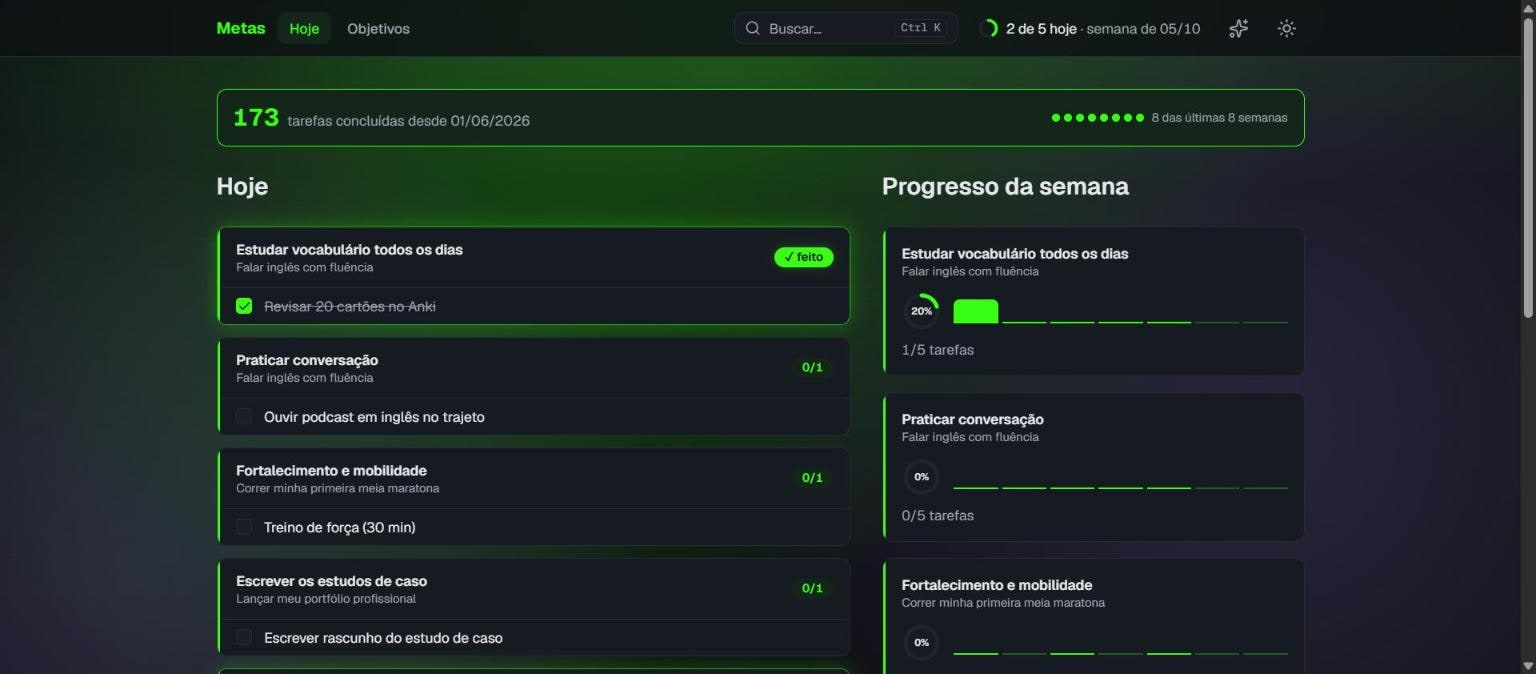
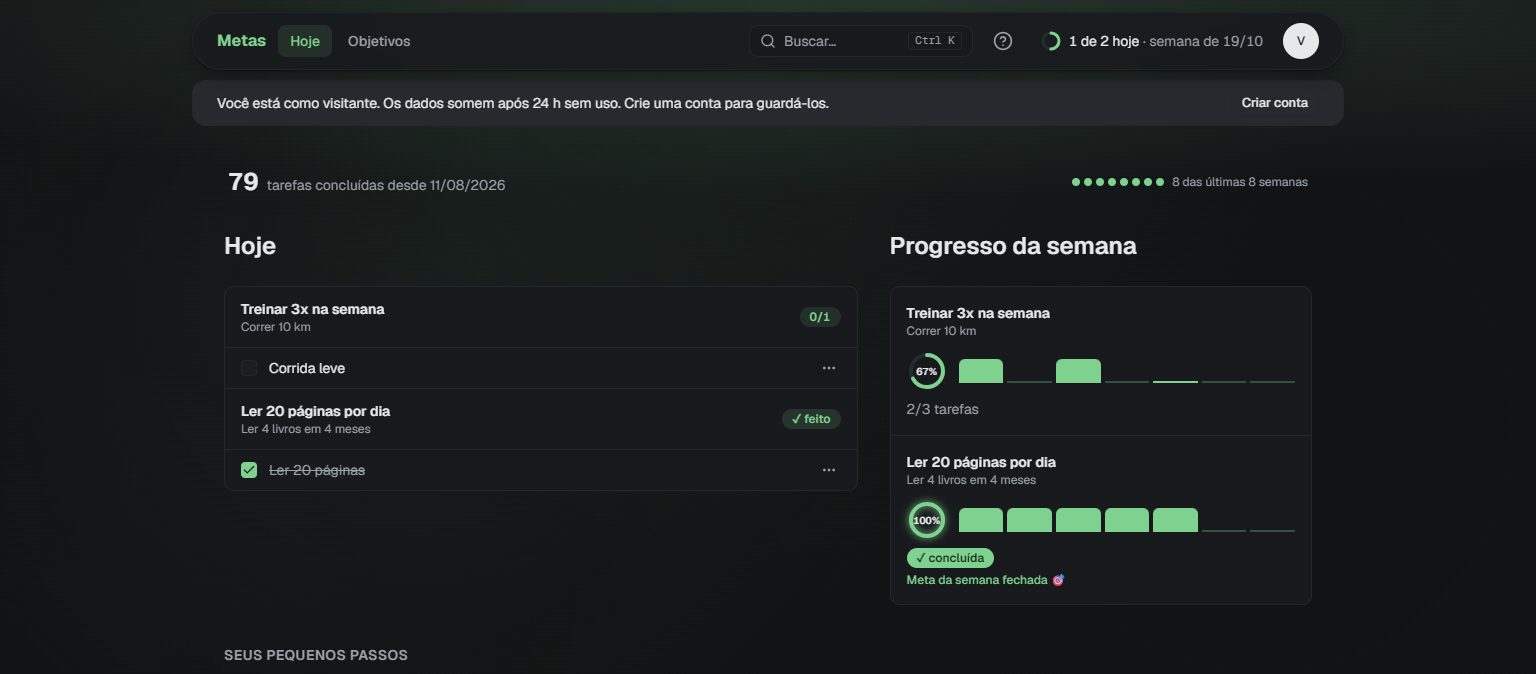
docs: refresh the README screenshots and the texts that changed
The screenshots still showed the old neon dark theme and the Today screen
without the new section. Regenerated with fictitious guest data (headless
Chrome driven over the DevTools protocol, 1536 px wide like before):

- hoje.jpg, tema-claro.jpg, objetivos.jpg, objetivo-detalhe.jpg,
  busca.jpg, tour.jpg, funil.jpg and mobile.png (two phone screens, as
  before) in the calmer look.
- New pequenos-passos.jpg: the "Seus pequenos passos" section with the
  compound effect and the year in dots.
- funil.jpg: fictitious quiz sessions (ids "readme-*") were inserted in
  the local dev database for the shot and deleted right after; the dev
  database's own anonymous test sessions stayed.

README.md:
- Intro and a new "Seus pequenos passos" feature bullet (compound effect,
  year dots with three tones and the 60% day, year arrows, "Ver o mês").
- Tela Hoje: each subject in a panel; theme bullet describes the calmer
  look and the fainter Aurora.
- New screenshots section for the small steps; test count "mais de 800".
- "Como o projeto é tocado": issues are closed by the
  close-issues-on-develop workflow when a PR enters develop.

Docs only: no code change. No tests run.

Refs #91

Changed region(s): [[0.0, 0.0, 1.0, 1.0], [0.625, 0.9659, 0.7812, 0.997], [0.5, 0.5297, 0.5625, 0.5608]]

diff --git a/README.md b/README.md
@@ -4,7 +4,8 @@
 
 Acompanhe **objetivos**, quebre-os em **metas semanais** e execute com **tarefas diárias** — com um
 quiz de onboarding que monta o primeiro plano, um funil de conversão medido no próprio app, gráficos de
-progresso, sequência de semanas cumpridas e um app instalável (PWA) no celular e no desktop.
+progresso, sequência de semanas cumpridas, um calendário de pontos do ano e um app instalável (PWA) no
+celular e no desktop.
 
 **[Ver online](https://metas-app-flax.vercel.app)** · [abrir direto no quiz](https://metas-app-flax.vercel.app/quiz)
 · [ver o funil](https://metas-app-flax.vercel.app/funil)
@@ -12,7 +13,7 @@ progresso, sequência de semanas cumpridas e um app instalável (PWA) no celular
 > Entre como visitante para ver uma conta de demonstração com dados prontos (apagada após 24 h sem uso),
 > ou crie sua conta com e-mail e senha.
 
-![Tela Hoje, em tema escuro: tarefas do dia agrupadas por meta e o progresso da semana](docs/screenshots/hoje.jpg)
+![Tela Hoje, em tema escuro: as tarefas do dia e o progresso da semana, cada assunto em um painel](docs/screenshots/hoje.jpg)
 
 > As imagens deste README foram geradas com dados fictícios.
 
@@ -39,7 +40,12 @@ progresso, sequência de semanas cumpridas e um app instalável (PWA) no celular
 - **Hierarquia de três níveis:** objetivo → metas semanais → tarefas diárias, com prazo e acompanhamento
   do tempo decorrido até a data-alvo.
 - **Tela Hoje:** as tarefas do dia agrupadas por meta, ao lado do progresso da semana (anel de progresso
-  e uma barra por dia). Marcar uma tarefa atualiza a tela na hora, antes de o servidor responder.
+  e uma barra por dia), cada assunto em um painel. Marcar uma tarefa atualiza a tela na hora, antes de o
+  servidor responder.
+- **Seus pequenos passos:** no fim da tela Hoje, o **efeito composto** (1% melhor a cada dia feito) e o ano
+  inteiro em pontinhos, um por dia, em três tons: nada feito, parte feita e dia feito (60% ou mais das tarefas
+  planejadas para o dia, para que um imprevisto não apague o dia). Setas voltam aos anos anteriores e o botão
+  "Ver o mês" abre o mês numa janela. A seção aparece também para quem ainda não tem nada feito, como convite.
 - **Metas recorrentes:** uma meta marcada como "repete toda semana" é recriada, com suas tarefas, a cada
   nova semana. Quem volta depois de dias fora vê o que foi planejado e repete a última semana com um clique.
 - **Dashboard de objetivos:** média de conclusão das últimas 8 semanas, barras por semana, sequência de
@@ -51,7 +57,8 @@ progresso, sequência de semanas cumpridas e um app instalável (PWA) no celular
   perde um dia.
 - **Busca global (`Ctrl K`):** encontra objetivos e metas semanais, de qualquer semana, a partir de
   qualquer tela.
-- **Tema claro e escuro** e **fundo interativo** (aurora ou grade de pontos, desenhado em canvas).
+- **Tema claro e escuro**, com um visual sóbrio (sem brilho, uma cor de destaque calma usada só no que
+  importa) e **fundo interativo** (aurora discreta ou grade de pontos, desenhado em canvas).
 - **Instalável como app (PWA)** e com layout próprio para celular, com navegação inferior.
 - **Navegação flutuante ("ilha"):** no computador, o cabeçalho é uma barra arredondada flutuante no topo; no
   celular, a barra de baixo flutua. As duas somem ao rolar para baixo e voltam ao rolar para cima, e não
@@ -62,6 +69,10 @@ progresso, sequência de semanas cumpridas e um app instalável (PWA) no celular
 ### Tour de boas-vindas
 
 ![Diálogo de boas-vindas na primeira etapa, sobre a tela Hoje](docs/screenshots/tour.jpg)
+
+### Seus pequenos passos
+
+![Seção "Seus pequenos passos" no fim da tela Hoje: o efeito composto e o ano em pontinhos, com o botão "Ver o mês"](docs/screenshots/pequenos-passos.jpg)
 
 ### Objetivos
 
@@ -142,7 +153,7 @@ src/app/**/page.tsx       ◀──     · validam a entrada
 ## Decisões de projeto
 
 - **Testes contra um Postgres de verdade.** A camada de dados é testada com o banco `metas_app_test`, sem
-  mocks do Prisma. Os componentes têm testes com Testing Library. A suíte tem mais de 450 testes.
+  mocks do Prisma. Os componentes têm testes com Testing Library. A suíte tem mais de 800 testes.
 - **Isolamento por usuário testado.** Toda consulta filtra pelo dono, e registros de outra pessoa se
   comportam como inexistentes; cada módulo de dados tem testes garantindo isso.
 - **Tema vindo do servidor.** O tema fica em um cookie e a página já sai renderizada com ele; a cor da
@@ -270,7 +281,8 @@ o banco.
   [GitHub Projects](https://github.com/users/fraissatt/projects).
 - **Branches por tarefa** com o número da issue (`feature/12-…`, `fix/15-…`), saindo de `develop`.
 - **Pull Requests** para `develop` (homologação) e depois para `master` (produção, deploy automático na
-  Vercel). Cada PR fecha sua issue com `Closes #N`.
+  Vercel). Cada PR cita sua issue com `Closes #N`; como o GitHub só fecha issues em PRs para a `master`, uma
+  automação (`.github/workflows/close-issues-on-develop.yml`) fecha a issue assim que o PR entra na `develop`.
 - **CI no GitHub Actions** em todo push e PR: lint, checagem de tipos e a suíte de testes contra um Postgres
   de teste, rodando em UTC e no horário de Brasília.
 - **Features maiores têm spec e plano** antes do código, em [`docs/superpowers`](docs/superpowers).
